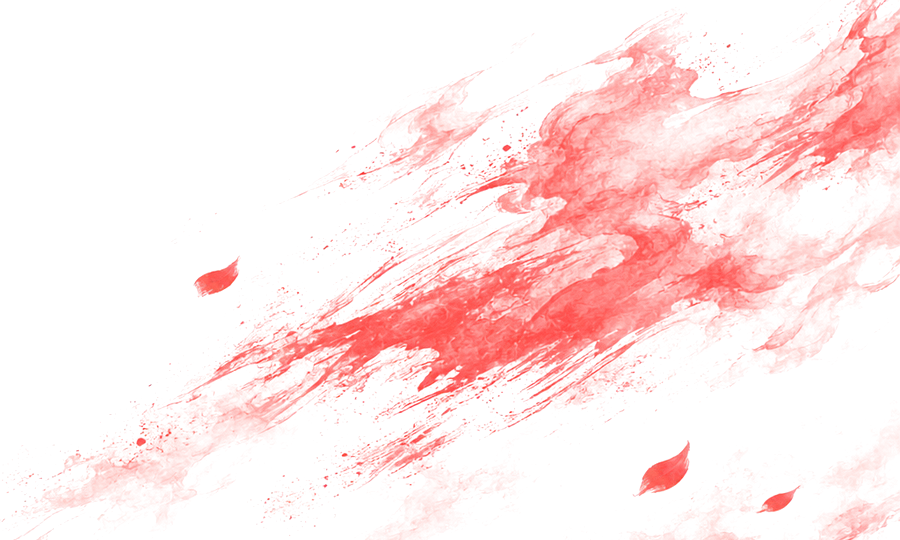
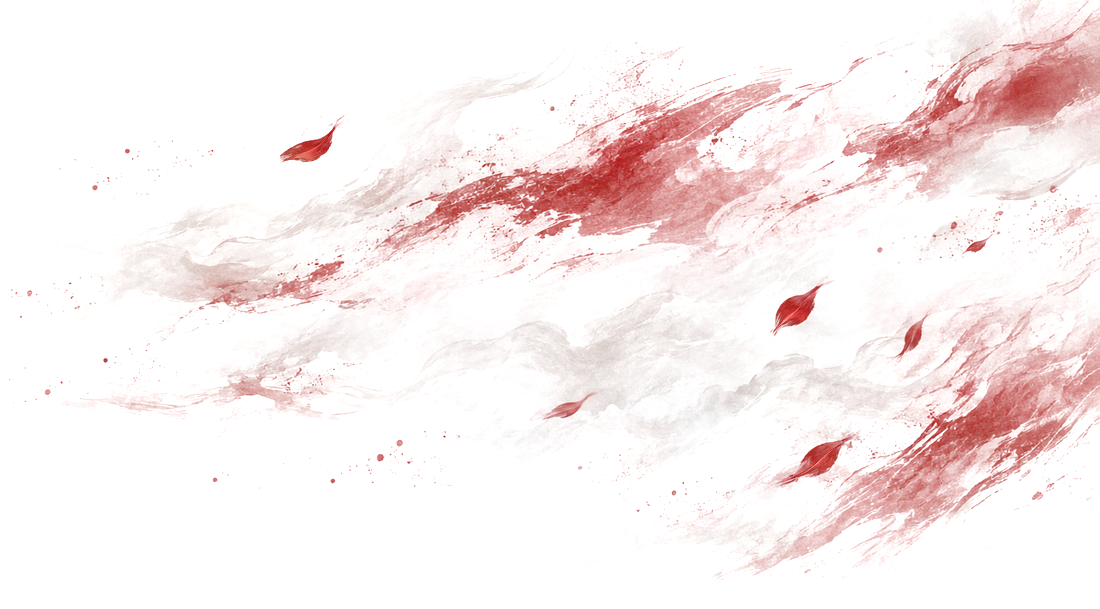
style: layered red-ink smoke under guardian, cream ink mountains bottom-right per reference

diff --git a/src/components/ink-stage.css b/src/components/ink-stage.css
@@ -42,12 +42,12 @@
   [data-theme="ink"] .ink-paper--bottom { display: none; }
   [data-theme="ink"] .ink-mountains, [data-theme="ink"] .ink-smoke { display: block; }
   [data-theme="ink"] .ink-mountains--br {
-    right: 0; bottom: 0; width: calc(520 * var(--u)); opacity: .75; filter: brightness(.72);
+    right: 0; bottom: 0; width: calc(560 * var(--u)); opacity: .92;
     -webkit-mask-image: linear-gradient(90deg, transparent 0, #000 38%);
     mask-image: linear-gradient(90deg, transparent 0, #000 38%);
   }
   [data-theme="ink"] .ink-mountains--left { left: calc(-20 * var(--u)); top: calc(200 * var(--u)); width: calc(240 * var(--u)); opacity: .85; }
-  [data-theme="ink"] .ink-smoke { top: calc(40 * var(--u)); right: calc(60 * var(--u)); width: calc(380 * var(--u)); opacity: .9; }
+  [data-theme="ink"] .ink-smoke { top: calc(10 * var(--u)); right: calc(-30 * var(--u)); width: calc(560 * var(--u)); opacity: .95; }
   /* 守护者：3DCG 立绘，边缘用墨晕渐隐融进底子。 */
   [data-theme="ink"] .ink-guardian--dark {
     top: calc(-36 * var(--u));
